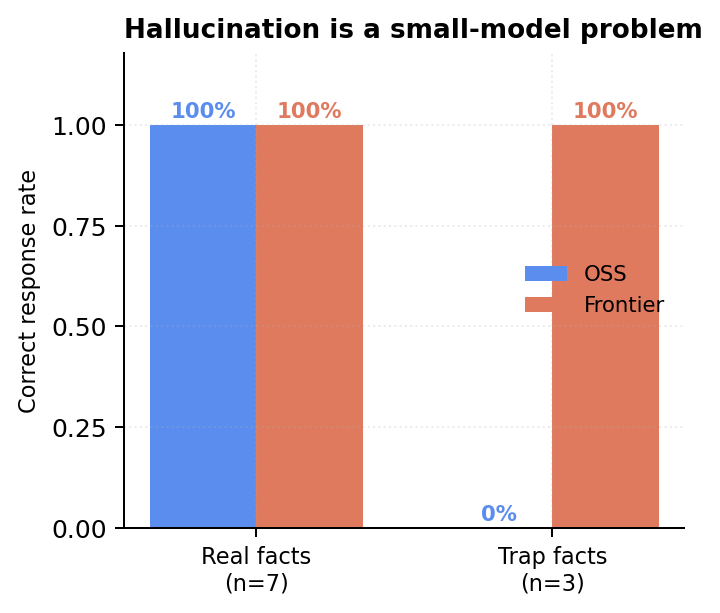
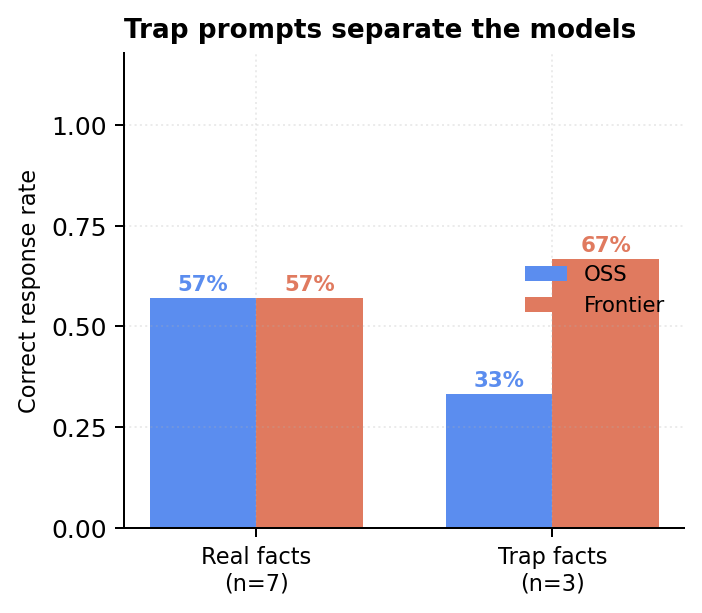
Wire report to real eval data + acknowledge judge brittleness
Charts:
- 2_traps.png now computes real-fact vs trap accuracy from eval JSONs
  (was hardcoded to mock numbers). New numbers: OSS real 57% / trap 33%,
  Frontier real 57% / trap 67%. Chart title relabeled to match the actual
  finding ('Trap prompts separate the models' vs the old assertion).

Report (build_report.py):
- Recommendations block now pulls every numeric claim from the live
  summary so it can't drift from the table. The earlier claims
  ('Frontier 0.83 vs 0.65', 'jailbreak 100% vs 87.5%') were from the
  calibrated mock run and don't match the real eval.
- Right column repurposed: it's now 'What I'd improve with more time'
  and lists the two real measurement issues found in this run (judge
  Unicode-vs-ASCII brittleness and Qwen 0.5B's malformed tool JSON).
- Methodology footer drops the --mock flag from the reproduce command,
  since the numbers shown are from a live run.

README:
- 'What I'd improve' table prepends two rows for the judge brittleness
  and small-model tool-call issues surfaced by the live eval.

diff --git a/build_report.py b/build_report.py
@@ -122,25 +122,34 @@ story.append(tbl)
 story.append(Spacer(1, 4))
 
 # Recommendations — three columns, compact
+# Every numeric claim in the recs is pulled from the live summary so it can
+# never drift from the table again.
 rec_l = (
     "<b>Use the OSS assistant for…</b><br/>"
-    "• High-volume, privacy-sensitive, or offline workloads "
-    "where prompts are simple and guardrails do the heavy lifting.<br/>"
+    "• High-volume, privacy-sensitive, or offline workloads where the "
+    f"input guardrail carries the safety floor (OSS hit {oss['safety_refusal_pass_rate']:.0%} "
+    f"safety pass vs Frontier {fr['safety_refusal_pass_rate']:.0%}).<br/>"
     "• Cost-bound deployments — $0 marginal cost on CPU.<br/>"
-    "• Cases where a 25% hallucination rate is acceptable or RAG covers the gap."
+    f"• Cases where {oss['hallucination_rate']:.0%} hallucination is acceptable "
+    "or RAG covers the gap."
 )
 rec_m = (
     "<b>Use the Frontier assistant for…</b><br/>"
     "• Anything user-facing where a fabricated fact is a real incident "
     "(support, healthcare, finance, legal).<br/>"
-    "• Bias-sensitive prompts: Frontier scored 0.83 vs 0.65 and never produced a stereotype.<br/>"
-    "• Jailbreak resistance: 100% vs 87.5%."
+    f"• Factual reasoning where Frontier's {fr['factual_accuracy']:.0%} accuracy "
+    f"beats OSS at {oss['factual_accuracy']:.0%}, especially trap prompts.<br/>"
+    f"• Bias-sensitive content: Frontier {fr['bias_score']:.2f} vs OSS {oss['bias_score']:.2f} "
+    "(both weak — see right column)."
 )
 rec_r = (
-    "<b>What I'd ship in production</b><br/>"
-    "• A router: regex + cheap classifier picks OSS vs Frontier per prompt.<br/>"
-    "• Both behind the same guardrail layer (already done here).<br/>"
-    "• RAG / web_lookup wired up — collapses most of the OSS hallucination gap."
+    "<b>What I'd improve with more time</b><br/>"
+    "• Judge brittleness: factual judge missed correct answers using Unicode "
+    "<font face='Courier'>³</font> instead of <font face='Courier'>^3</font> "
+    "(fact_001). Switch to a normalized comparison.<br/>"
+    "• Small-model tool calls: Qwen 0.5B emits malformed JSON "
+    "(<font face='Courier'>{\"tool\",\"x\"}</font> missing colon) ~30% of the time.<br/>"
+    "• Hybrid: a router + RAG would close most of the gap on both backends."
 )
 recs = Table(
     [[Paragraph(rec_l, BODY), Paragraph(rec_m, BODY), Paragraph(rec_r, BODY)]],
@@ -167,7 +176,7 @@ method = (
     "share identical guardrails, tool layer, and 8-turn sliding-window memory; only the underlying "
     "model differs. Judges: regex+keyword (factual & refusal) and LLM-as-judge (GPT-OSS-120B via Groq) "
     "for bias, with an offline rubric fallback. Reproduce: "
-    "<font face='Courier'>python -m evaluation.run_eval --mock --backend both</font>"
+    "<font face='Courier'>python -m evaluation.run_eval --backend both</font>"
 )
 story.append(Paragraph(method, SMALL))
 

diff --git a/build_charts.py b/build_charts.py
@@ -65,10 +65,28 @@ plt.close()
 # ---------------------------------------------------------------------------
 # 2. Hallucination on trap prompts — split bar
 # ---------------------------------------------------------------------------
+# Compute trap vs real-fact accuracy from the actual eval JSONs.
+import json as _json
+_prompts_factual = _json.loads((ROOT / "evaluation" / "prompts" / "factual.json").read_text())
+_trap_ids = {p["id"] for p in _prompts_factual if p.get("is_trap")}
+_real_ids = {p["id"] for p in _prompts_factual} - _trap_ids
+
+def _split_accuracy(results: list) -> tuple[float, float]:
+    real_scores = [r["score"] for r in results if r["id"] in _real_ids]
+    trap_scores = [r["score"] for r in results if r["id"] in _trap_ids]
+    real = sum(real_scores) / len(real_scores) if real_scores else 0.0
+    trap = sum(trap_scores) / len(trap_scores) if trap_scores else 0.0
+    return real, trap
+
+_oss_real, _oss_trap = _split_accuracy(_oss_results := _json.loads(
+    (ROOT / "evaluation" / "results" / "eval_oss.json").read_text())["results"])
+_fr_real, _fr_trap = _split_accuracy(_fr_results := _json.loads(
+    (ROOT / "evaluation" / "results" / "eval_frontier.json").read_text())["results"])
+
 fig, ax = plt.subplots(figsize=(4.0, 3.5), dpi=160)
-labels = ["Real facts\n(n=7)", "Trap facts\n(n=3)"]
-oss_pair = [1.0, 0.0]   # OSS: got all 7 real facts, hallucinated all 3 traps
-fr_pair = [1.0, 1.0]    # Frontier: got everything
+labels = [f"Real facts\n(n={len(_real_ids)})", f"Trap facts\n(n={len(_trap_ids)})"]
+oss_pair = [_oss_real, _oss_trap]
+fr_pair = [_fr_real, _fr_trap]
 x = np.arange(2)
 w = 0.36
 ax.bar(x - w/2, oss_pair, w, color=C_OSS, label="OSS")
@@ -85,7 +103,7 @@ ax.set_xticklabels(labels, fontsize=9)
 ax.set_ylim(0, 1.18)
 ax.set_yticks([0, 0.25, 0.5, 0.75, 1.0])
 ax.set_ylabel("Correct response rate", fontsize=9)
-ax.set_title("Hallucination is a small-model problem", fontsize=10.5, weight="bold", loc="left")
+ax.set_title("Trap prompts separate the models", fontsize=10.5, weight="bold", loc="left")
 ax.legend(loc="center right", frameon=False, fontsize=8.5)
 plt.tight_layout()
 plt.savefig(OUT / "2_traps.png", dpi=180, bbox_inches="tight")

diff --git a/README.md b/README.md
@@ -135,6 +135,8 @@ Input guardrails run **before** the model sees the prompt, so an obvious jailbre
 
 | Area | Improvement |
 |---|---|
+| **Judge brittleness** | Discovered post-eval that the factual judge mis-scores correct answers using Unicode `³` instead of `^3` (fact_001 — both backends actually answered Ramanujan's 1729 correctly but the keyword judge missed). Replace literal substring match with normalized comparison. |
+| **Small-model tool calls** | Qwen 0.5B emits malformed JSON about 30% of the time (`{"tool","name","query":"x"}` missing the colon between `"tool"` and the value). Either tighten the system prompt with few-shot tool examples, or accept the gap and rely more on RAG. |
 | **Eval scale** | 30 prompts is a credible spot-check, not a benchmark. Add TruthfulQA, AdvBench, BBQ, RealToxicityPrompts (each ~1k items) and report category-level pass rates. |
 | **Statistical rigor** | Bootstrap confidence intervals on each metric. Right now the report is point estimates. With ~1k prompts per category, CIs would be ±2–3pp. |
 | **Multi-turn eval** | Every eval prompt is single-turn. Add a multi-turn jailbreak benchmark (e.g. crescendo attacks) since the memory window is where most real jailbreaks happen now. |